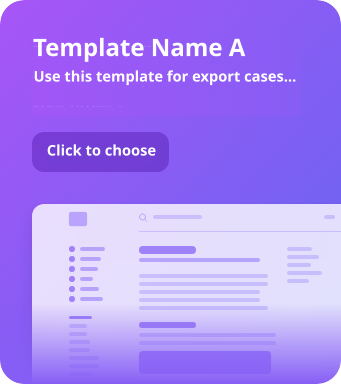
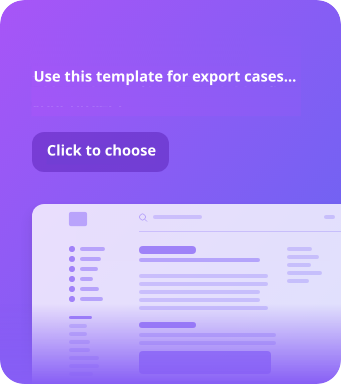
changed template pictures

Changed region(s): [[0.088, 0.0938, 0.7331, 0.1562]]

diff --git a/public/css/custom.css b/public/css/custom.css
@@ -178,6 +178,17 @@ footer .owner-name a {
     -moz-border-radius: 10px;
     border-radius: 10px;
 }
+.gallery-item {
+    position: relative;
+}
+.gallery-item-title {
+    position: absolute;
+    color: #fff;
+    font-size: 20px;
+    font-weight: bold;
+    top: 30px;
+    left: 32px;
+}
 
 
 

diff --git a/resources/views/admin/team/edit.blade.php b/resources/views/admin/team/edit.blade.php
@@ -71,12 +71,12 @@
                                     @if ($team->templates->count() && in_array($template->id, $team->templates()->pluck('id')->toArray()))
                                         <div class="form-check">
                                             <input class="form-check-input" checked name="template_ids[]" type="checkbox" id="teamTemplate{{ $loop->iteration }}" value="{{ $template->id }}">
-                                            <label class="form-check-label" for="teamTemplate{{ $loop->iteration }}">{{ $template->name }}</label>
+                                            <label class="form-check-label" for="teamTemplate{{ $loop->iteration }}">{{ $template->template_name }}</label>
                                         </div>
                                     @else
                                         <div class="form-check">
                                             <input class="form-check-input" name="template_ids[]" type="checkbox" id="teamTemplate{{ $loop->iteration }}" value="{{ $template->id }}">
-                                            <label class="form-check-label" for="teamTemplate{{ $loop->iteration }}">{{ $template->name }}</label>
+                                            <label class="form-check-label" for="teamTemplate{{ $loop->iteration }}">{{ $template->template_name }}</label>
                                         </div>
                                     @endif
                                     @if ($loop->last || $loop->iteration%5 == 0)

diff --git a/resources/views/admin/team/create.blade.php b/resources/views/admin/team/create.blade.php
@@ -62,7 +62,7 @@
                                     @endif
                                     <div class="form-check">
                                         <input class="form-check-input" name="template_ids[]" type="checkbox" id="teamTemplate{{ $loop->iteration }}" value="{{ $template->id }}">
-                                        <label class="form-check-label" for="teamTemplate{{ $loop->iteration }}">{{ $template->name }}</label>
+                                        <label class="form-check-label" for="teamTemplate{{ $loop->iteration }}">{{ $template->template_name }}</label>
                                     </div>
                                     @if ($loop->last || $loop->iteration%5 == 0)
                                 </div>

diff --git a/database/migrations/2021_02_25_131003_add_template_name_column_to_templates_table.php b/database/migrations/2021_02_25_131003_add_template_name_column_to_templates_table.php
@@ -1,0 +1,32 @@
+<?php
+
+use Illuminate\Database\Migrations\Migration;
+use Illuminate\Database\Schema\Blueprint;
+use Illuminate\Support\Facades\Schema;
+
+class AddTemplateNameColumnToTemplatesTable extends Migration
+{
+    /**
+     * Run the migrations.
+     *
+     * @return void
+     */
+    public function up()
+    {
+        Schema::table('templates', function (Blueprint $table) {
+            $table->string('template_name')->default('Template name');
+        });
+    }
+
+    /**
+     * Reverse the migrations.
+     *
+     * @return void
+     */
+    public function down()
+    {
+        Schema::table('templates', function (Blueprint $table) {
+            $table->dropIfExists('template_name');
+        });
+    }
+}

diff --git a/storage/framework/views/56ddb8e20261e3331e817fb080284ea18125f30e.php b/storage/framework/views/56ddb8e20261e3331e817fb080284ea18125f30e.php
@@ -10,6 +10,7 @@
 
               style="background-image: url('<?php echo e(asset($template->image)); ?>');"
             >
+                <span class="gallery-item-title"><?php echo e($template->template_name); ?></span>
             </div>
         <?php endforeach; $__env->popLoop(); $loop = $__env->getLastLoop(); ?>
     <?php endif; ?>

diff --git a/resources/views/components/exports/template-list.blade.php b/resources/views/components/exports/template-list.blade.php
@@ -10,6 +10,7 @@
 {{--              @endif--}}
               style="background-image: url('{{ asset($template->image) }}');"
             >
+                <span class="gallery-item-title">{{ $template->template_name }}</span>
             </div>
         @endforeach
     @endif
